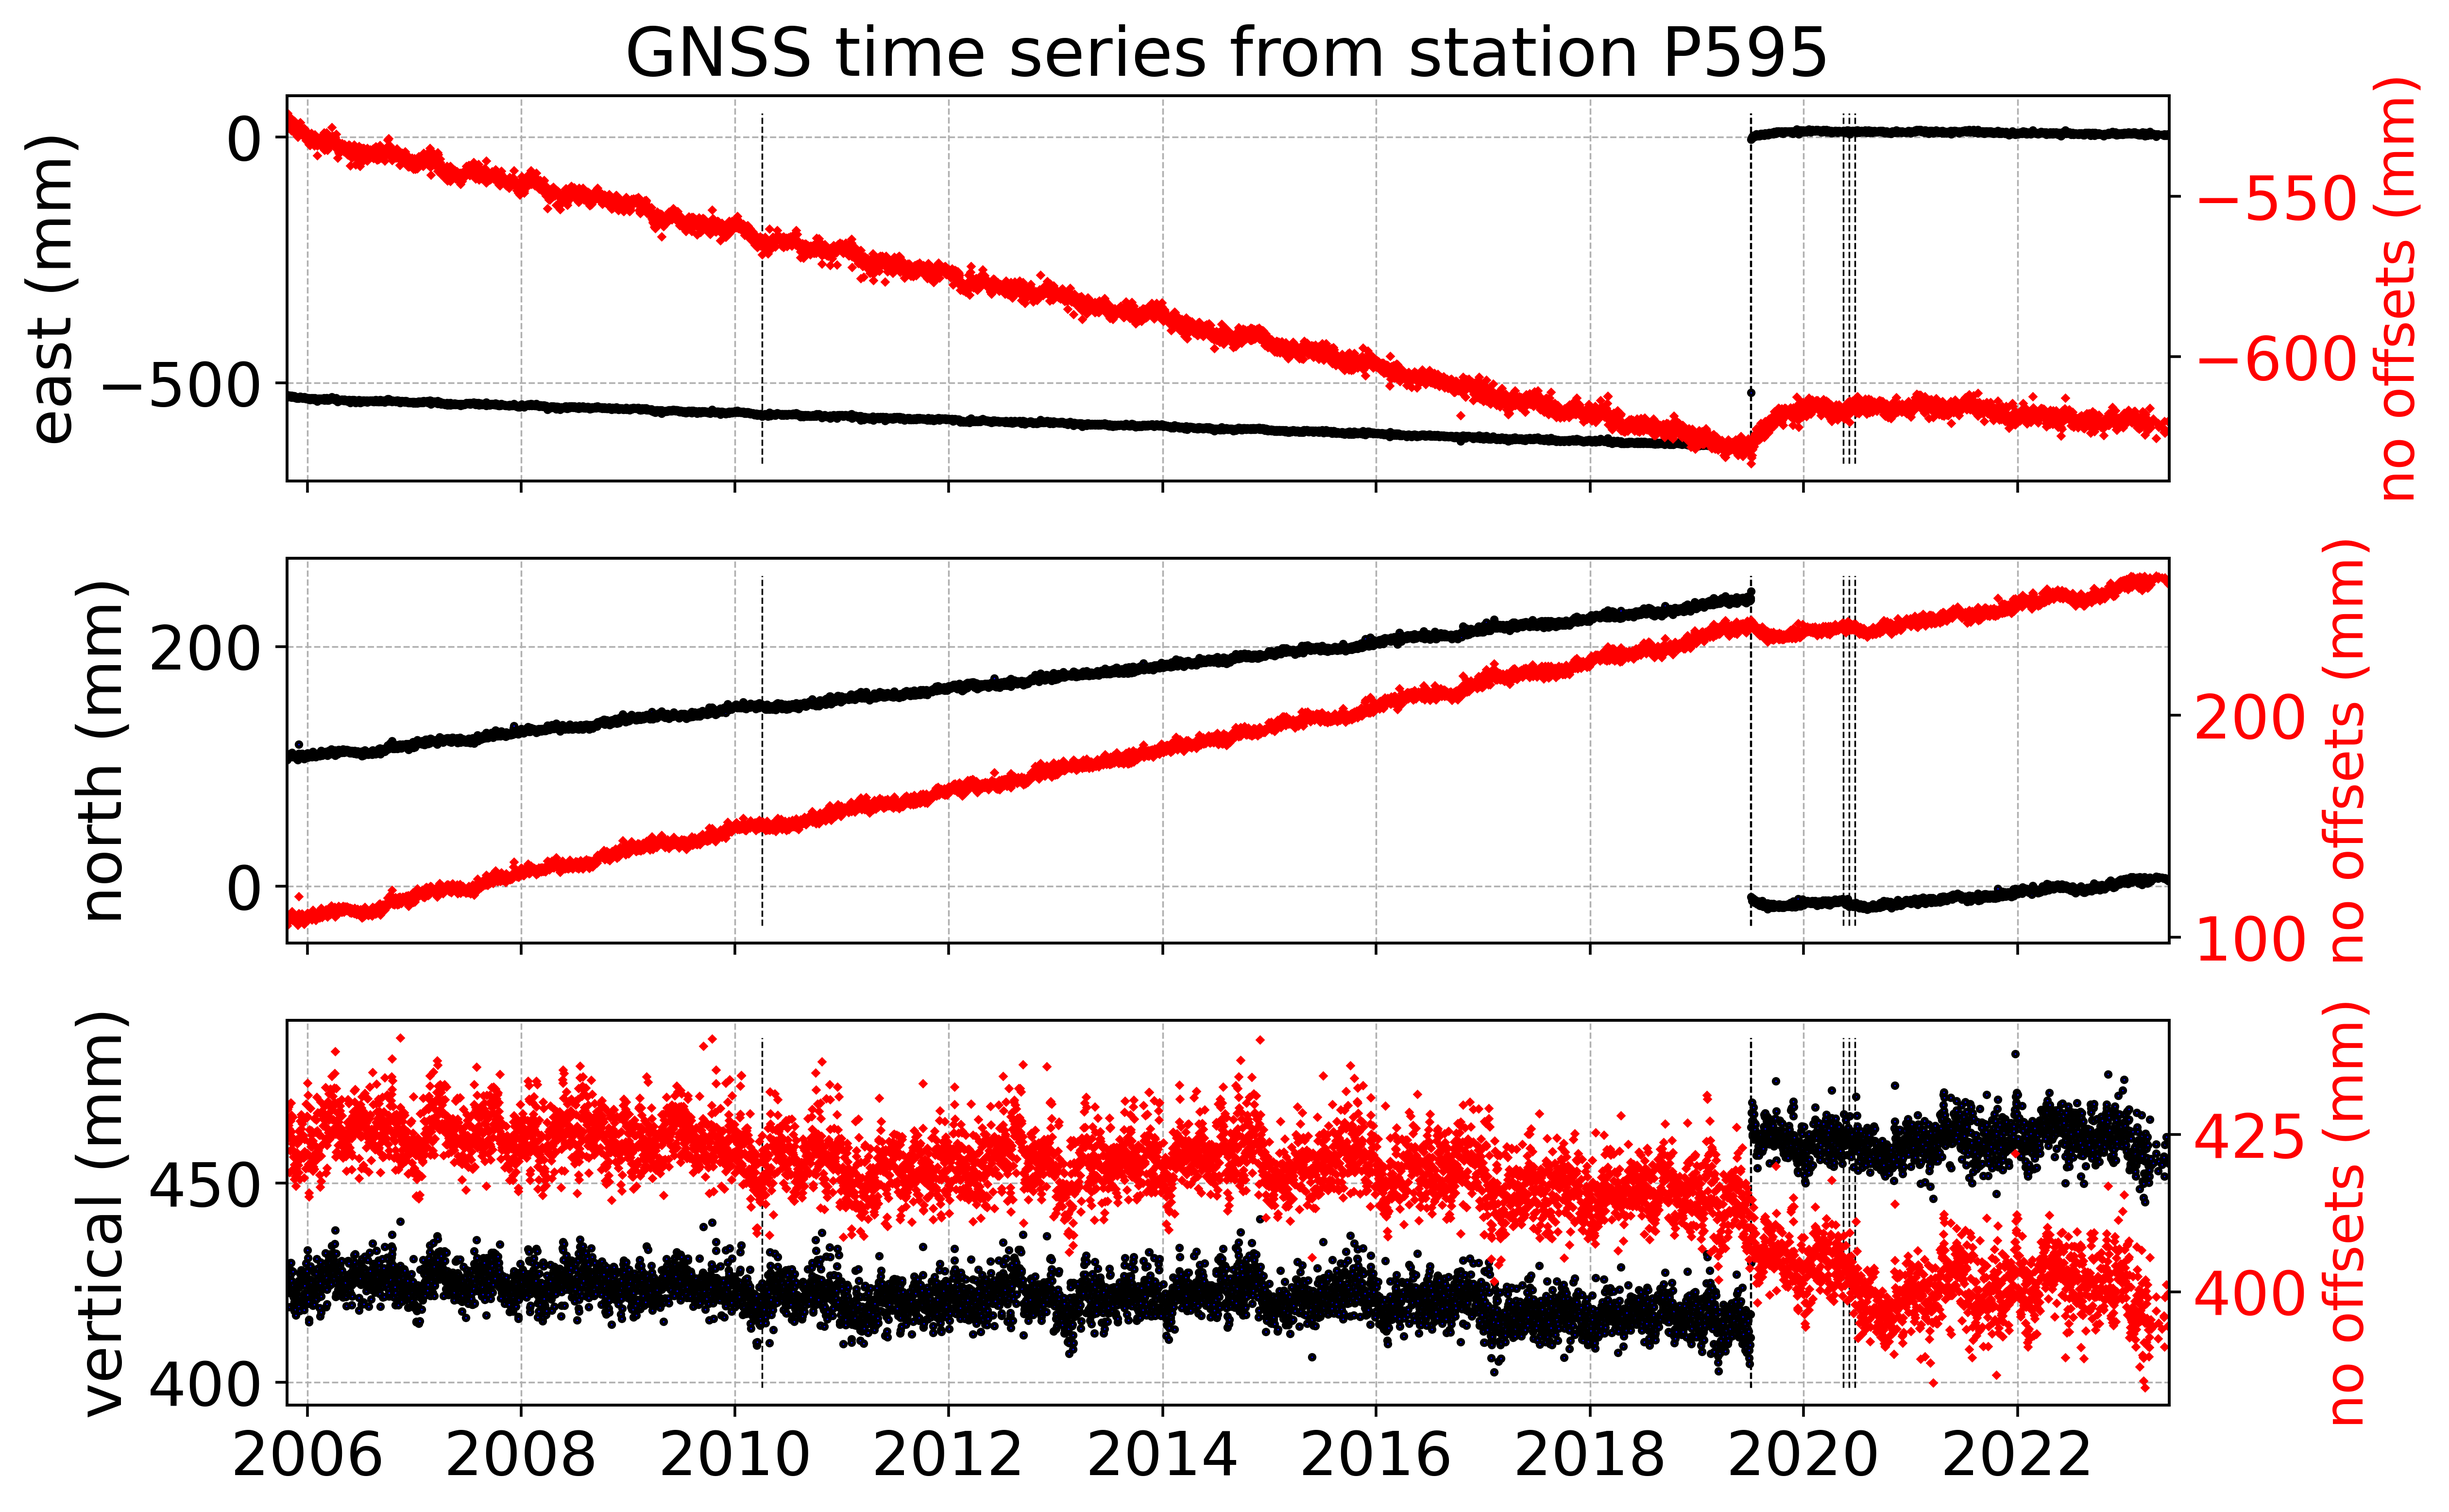
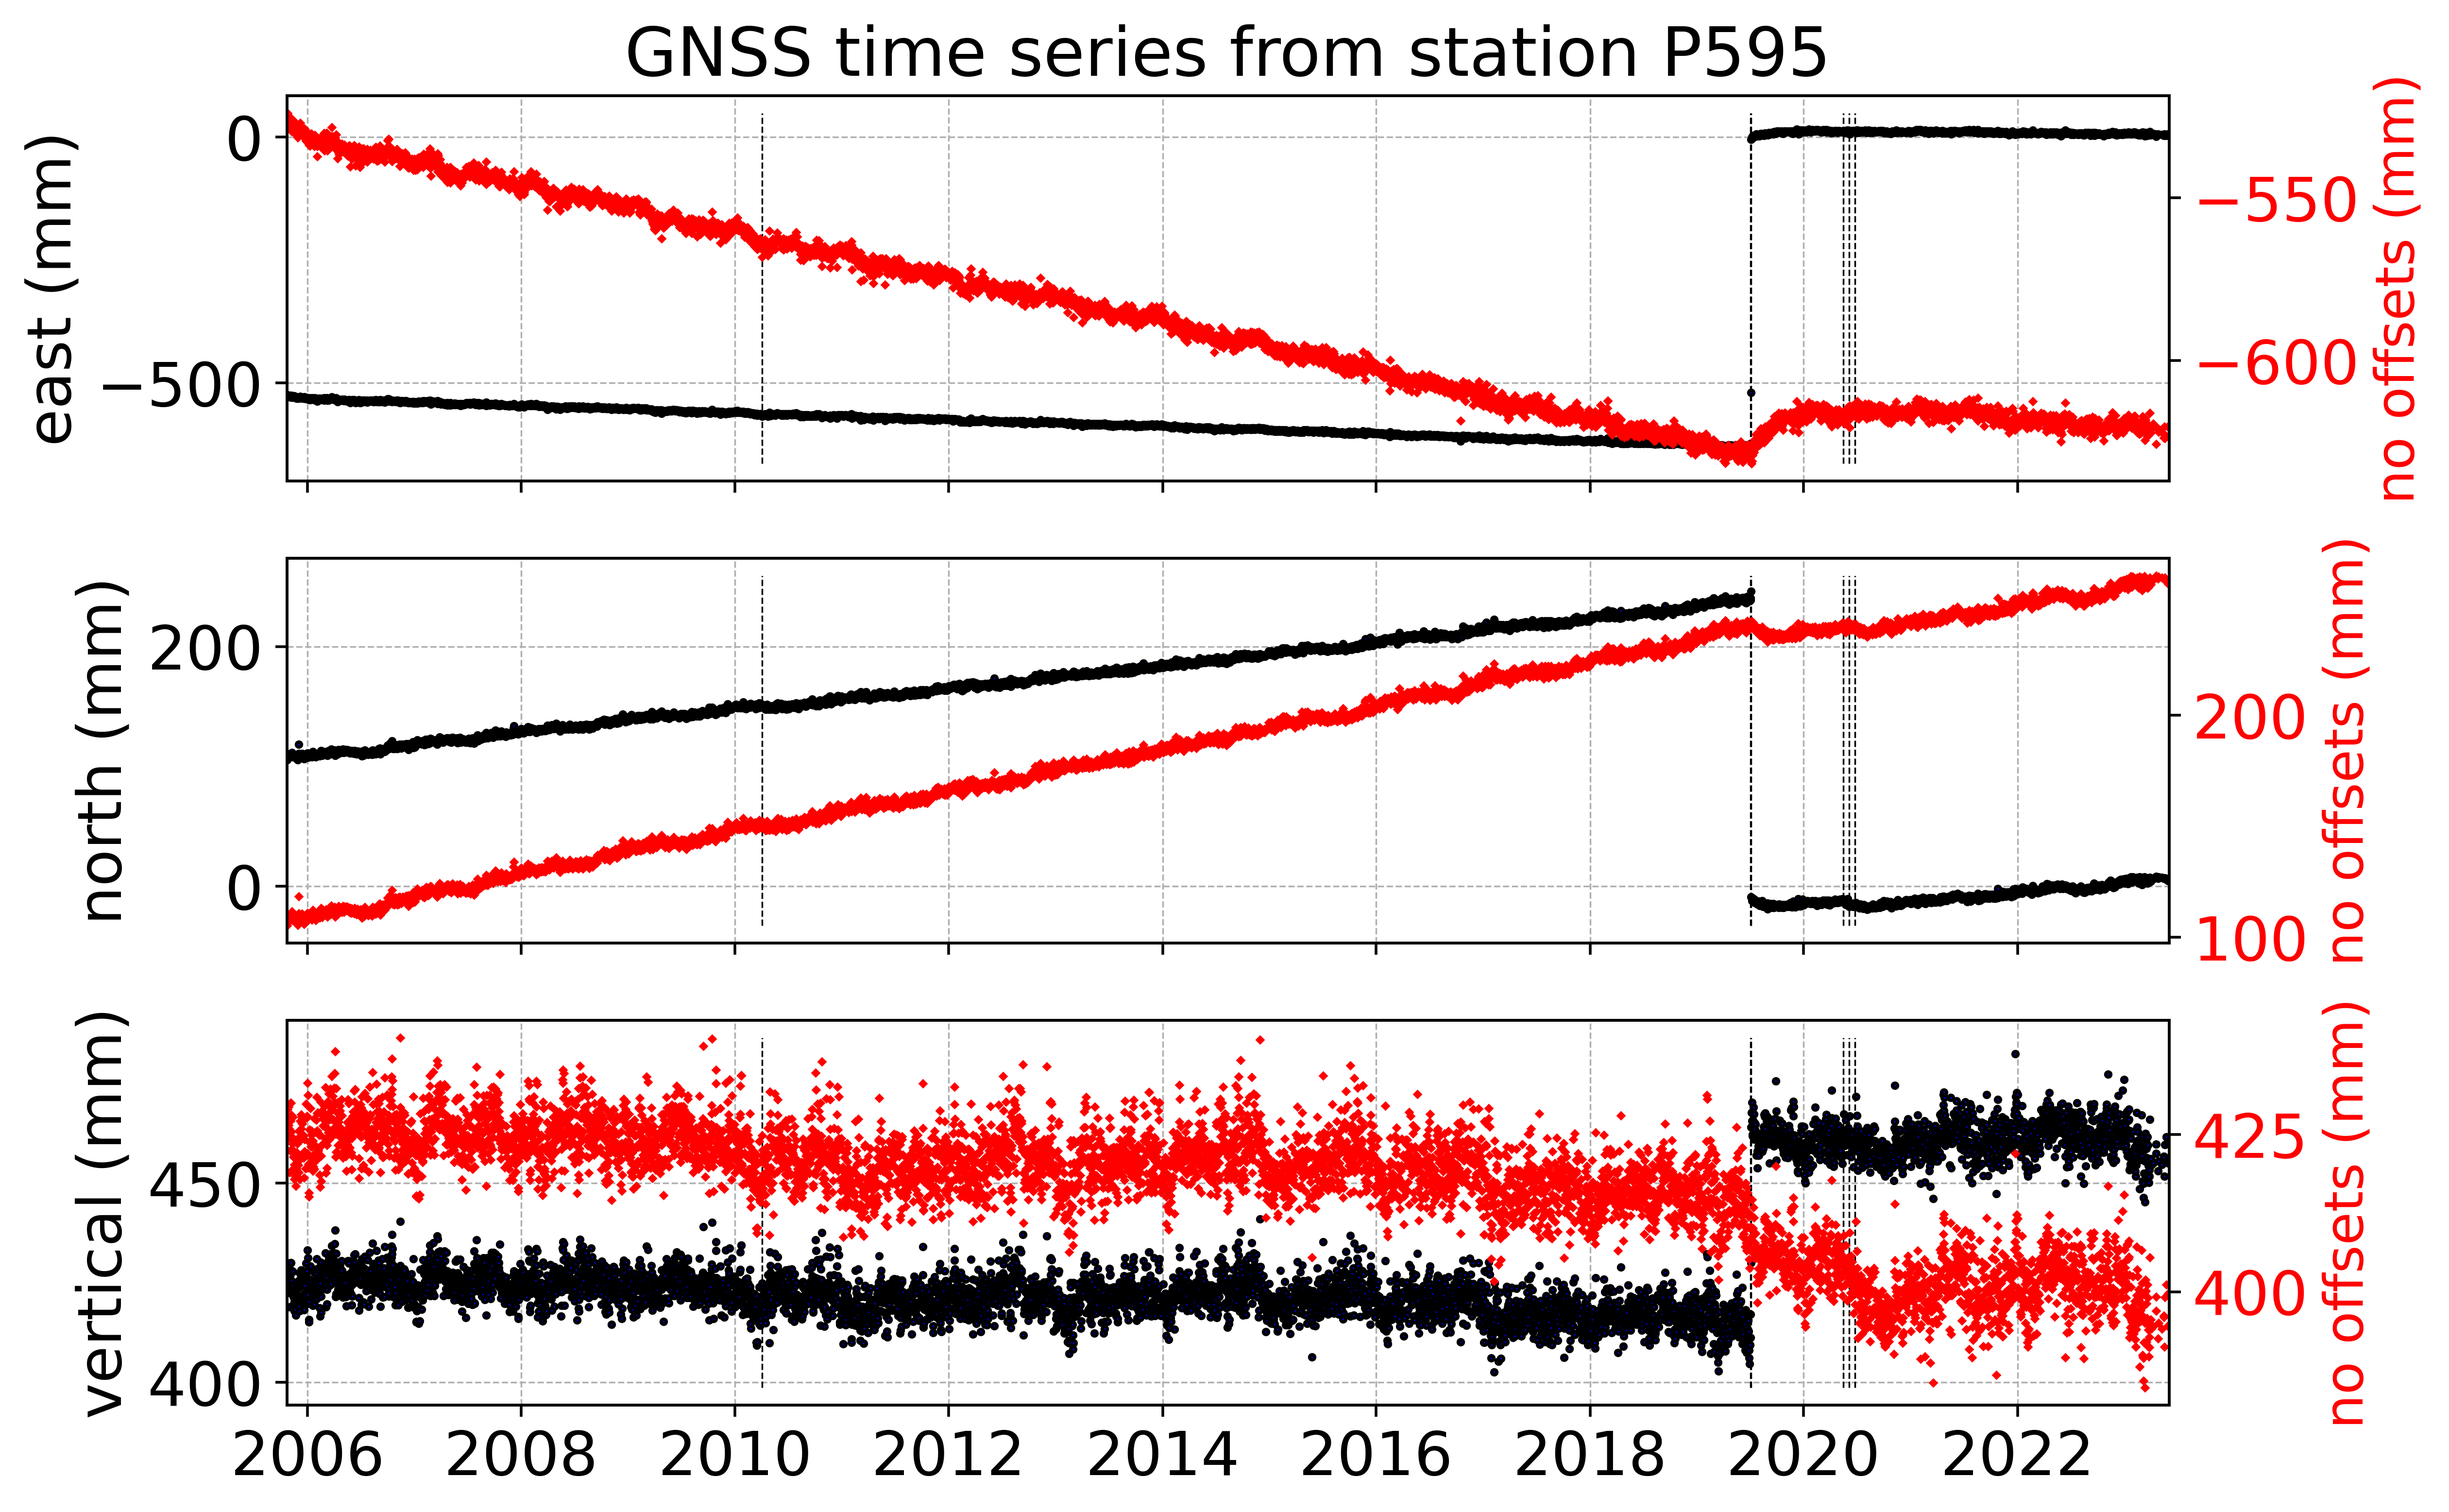
edits to remove_offsets example, adding exclude_date function

diff --git a/examples/example_driver_remove_offsets.py b/examples/example_driver_remove_offsets.py
@@ -27,6 +27,9 @@ def load_station_remove_offsets():
     myData = myData.impose_time_limits(dt.datetime.strptime("2000-01-01", "%Y-%m-%d"),
                                        dt.datetime.strptime("2025-01-01", "%Y-%m-%d"))
 
+    # Remove outliers > 20 mm for clarity
+    myData = myData.remove_outliers(outliers_def=20)
+
     # Remove offsets due to antenna changes
     nooffsets = offsets.remove_offsets(myData, offset_obj)
 
@@ -38,12 +41,12 @@ def load_station_remove_offsets():
             ridgecrest_coseismic = offsets.solve_for_offsets(nooffsets, [ridgecrest_window], num_days=10)
             nooffsets = offsets.remove_offsets(nooffsets, ridgecrest_coseismic)
             # Warning: Some pathological values may appear on 7/5/19 and 7/6/19 since they're within the solving window
+            # You might want to remove them with the following function:
+            nooffsets = nooffsets.remove_specific_date(dt.datetime.strptime("2019-07-05", "%Y-%m-%d"))
+            nooffsets = nooffsets.remove_specific_date(dt.datetime.strptime("2019-07-06", "%Y-%m-%d"))
 
-        else:  # the normal way
-            nooffsets = offsets.remove_offsets(nooffsets, [single_earthquake_offset])  # normal way, list of offsets
-
-    # Remove outliers > 20 mm for clarity
-    nooffsets = nooffsets.remove_outliers(outliers_def=20)
+        else:  # remove offsets the normal way
+            nooffsets = offsets.remove_offsets(nooffsets, [single_earthquake_offset])  # normal way, use list of offsets
 
     single_station_tsplot.single_ts_plot(myData, detrended=nooffsets, savename=station+'_view_ts.png',
                                          title='GNSS time series from station '+station, outdir='example_pngs/',

diff --git a/gnss_timeseries_viewers/gps_tools/gps_ts_functions.py b/gnss_timeseries_viewers/gps_tools/gps_ts_functions.py
@@ -142,6 +142,28 @@ class Timeseries:
                                  Offsettimes=self.Offsettimes)
         return newData
 
+    def remove_specific_date(self, target_date: dt.datetime):
+        """
+        Exclude a particular date from a time series. Useful when needing to exclude an earthquake event day.
+
+        :param target_date: datetime object
+        :return: Timeseries
+        """
+        newdtarray, newdN, newdE, newdU, newSe, newSn, newSu = [], [], [], [], [], [], []
+        for i in range(len(self.dN)):
+            if self.dtarray[i] != target_date:
+                newdtarray.append(self.dtarray[i])
+                newdE.append(self.dE[i])
+                newdN.append(self.dN[i])
+                newdU.append(self.dU[i])
+                newSe.append(self.Se[i])
+                newSn.append(self.Sn[i])
+                newSu.append(self.Su[i])
+        newData = Timeseries(name=self.name, coords=self.coords, dtarray=newdtarray, dN=np.array(newdN),
+                             dE=np.array(newdE), dU=np.array(newdU), Sn=np.array(newSn), Se=np.array(newSe),
+                             Su=np.array(newSu), EQtimes=self.EQtimes, Offsettimes=self.Offsettimes)
+        return newData
+
     def remove_constant(self, east_offset=0.0, north_offset=0.0, vert_offset=0.0):
         """Subtract a constant number from each data array in a time series object
 
